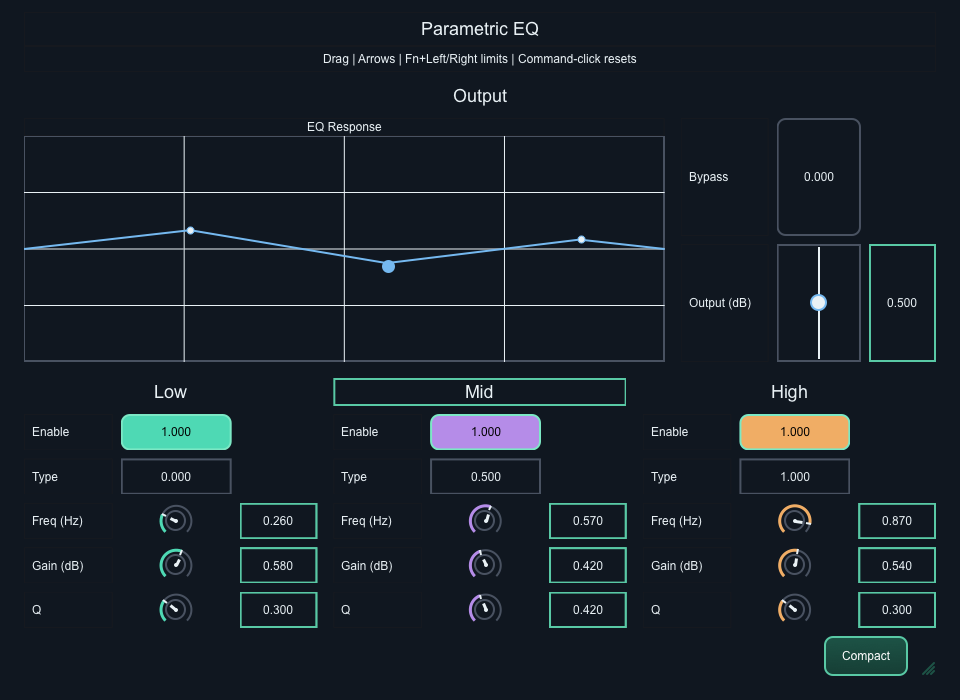
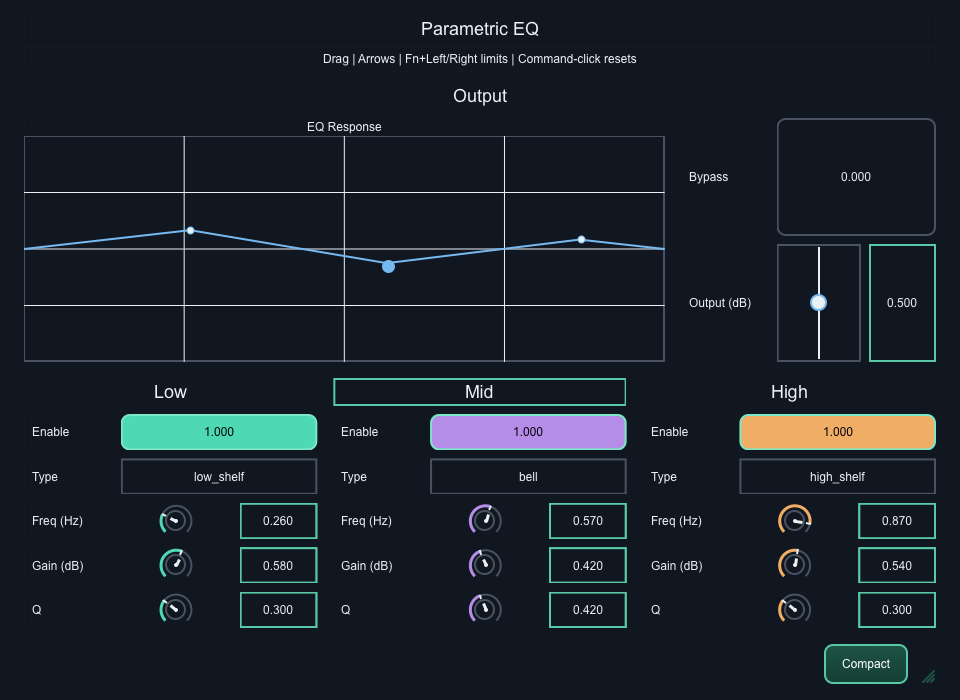
Polish parametric EQ layout

diff --git a/gui-adapters/vstgui/zig_vstgui_adapter_tests.cpp b/gui-adapters/vstgui/zig_vstgui_adapter_tests.cpp
@@ -1496,13 +1496,36 @@ int testParameterWorkspaceLayout() {
     callbacks.begin_edit = beginEdit;
     callbacks.perform_edit = performEdit;
     callbacks.end_edit = endEdit;
+    const char* titles[] = {
+        "Bypass", "Output", "Enable", "Type", "Freq", "Gain", "Q",
+        "Enable", "Type", "Freq", "Gain", "Q",
+        "Enable", "Type", "Freq", "Gain", "Q",
+    };
+    const char* units[] = {
+        "", "dB", "", "", "Hz", "dB", "",
+        "", "", "Hz", "dB", "",
+        "", "", "Hz", "dB", "",
+    };
+    const int32_t steps[] = {1, 0, 1, 2, 0, 0, 0, 1, 2, 0, 0, 0, 1, 2, 0, 0, 0};
+    const ZigVstguiControlKind kinds[] = {
+        ZIG_VSTGUI_CONTROL_TOGGLE, ZIG_VSTGUI_CONTROL_DECIBEL_SLIDER,
+        ZIG_VSTGUI_CONTROL_TOGGLE, ZIG_VSTGUI_CONTROL_ENUM_DROPDOWN,
+        ZIG_VSTGUI_CONTROL_ROTARY_KNOB, ZIG_VSTGUI_CONTROL_ROTARY_KNOB,
+        ZIG_VSTGUI_CONTROL_ROTARY_KNOB,
+        ZIG_VSTGUI_CONTROL_TOGGLE, ZIG_VSTGUI_CONTROL_ENUM_DROPDOWN,
+        ZIG_VSTGUI_CONTROL_ROTARY_KNOB, ZIG_VSTGUI_CONTROL_ROTARY_KNOB,
+        ZIG_VSTGUI_CONTROL_ROTARY_KNOB,
+        ZIG_VSTGUI_CONTROL_TOGGLE, ZIG_VSTGUI_CONTROL_ENUM_DROPDOWN,
+        ZIG_VSTGUI_CONTROL_ROTARY_KNOB, ZIG_VSTGUI_CONTROL_ROTARY_KNOB,
+        ZIG_VSTGUI_CONTROL_ROTARY_KNOB,
+    };
     std::array<ZigVstguiParameterDescription, 17> parameters {};
     for (uint32_t index = 0; index < parameters.size(); ++index) {
         parameters[index] = {
             index + 1,
             0.5,
-            {index % 5 == 4 ? "Freq" : "Control", index % 5 == 4 ? "Hz" : "", 0, 0.5},
-            index % 5 >= 2 ? ZIG_VSTGUI_CONTROL_ROTARY_KNOB : ZIG_VSTGUI_CONTROL_LINEAR_SLIDER,
+            {titles[index], units[index], steps[index], 0.5},
+            kinds[index],
         };
     }
     const ZigVstguiGraphPoint response[] = {{20.0, 0.0}, {1'000.0, 3.0}, {20'000.0, 0.0}};
@@ -1565,13 +1588,24 @@ int testParameterWorkspaceLayout() {
             VSTGUI::CRect primary;
             VSTGUI::CRect value;
             if (!editor.parameterControlBounds(parameter + 1, label, primary, value)) return 7;
-            const VSTGUI::CRect parts[] = {label, primary, value};
-            for (const auto& part : parts) {
+            const VSTGUI::CRect required_parts[] = {label, primary};
+            for (const auto& part : required_parts) {
                 if (part.getWidth() <= 0.0 || part.getHeight() <= 0.0 ||
                     part.left < margin || part.right > right ||
                     part.top < 0.0 || part.bottom > editor.contentHeight()) return 8;
             }
-            if (label.right > primary.left || primary.right > value.left) return 9;
+            const bool has_inline_value = kinds[parameter] == ZIG_VSTGUI_CONTROL_TOGGLE ||
+                kinds[parameter] == ZIG_VSTGUI_CONTROL_ENUM_DROPDOWN;
+            if (label.right > primary.left) return 9;
+            if (has_inline_value) {
+                if (value.getWidth() != 0.0 || value.getHeight() != 0.0) return 22;
+                if (size[0] == 720 && primary.getWidth() < 112.0) return 23;
+            } else {
+                if (value.getWidth() <= 0.0 || value.getHeight() <= 0.0 ||
+                    value.left < margin || value.right > right ||
+                    value.top < 0.0 || value.bottom > editor.contentHeight()) return 24;
+                if (primary.right > value.left) return 25;
+            }
         }
         const auto graph_bounds = editor.graphBounds(0);
         if (graph_bounds.getWidth() <= 0.0 || graph_bounds.getHeight() < 100.0 ||

diff --git a/gui-adapters/vstgui/zig_vstgui_visual_tests.cpp b/gui-adapters/vstgui/zig_vstgui_visual_tests.cpp
@@ -82,6 +82,19 @@ int32_t rejectDrop(void*, uint32_t, const char* const*, uint32_t) { return -1; }
 int32_t acceptAction(void*, uint32_t, uint32_t) { return 0; }
 int32_t rejectAction(void*, uint32_t, uint32_t) { return -1; }
 
+int32_t formatEqValue(void*, uint32_t parameter_id, double normalized, char* output, uint32_t capacity) {
+    if (!output || capacity == 0) return -1;
+    const bool type_parameter = parameter_id == 4 || parameter_id == 9 || parameter_id == 14;
+    if (type_parameter) {
+        const char* value = normalized < 0.25 ? "low_shelf" :
+            normalized < 0.75 ? "bell" : "high_shelf";
+        const int written = std::snprintf(output, capacity, "%s", value);
+        return written >= 0 && static_cast<uint32_t>(written) < capacity ? written : -1;
+    }
+    const int written = std::snprintf(output, capacity, "%.3f", normalized);
+    return written >= 0 && static_cast<uint32_t>(written) < capacity ? written : -1;
+}
+
 struct TextProgressVisualState {
     std::string text {"Studio Plate"};
     bool reject {false};
@@ -1246,6 +1259,7 @@ std::shared_ptr<ZigVstguiEditor> buildParameterWorkspace(uint32_t width, uint32_
     callbacks.begin_edit = acceptBegin;
     callbacks.perform_edit = acceptEdit;
     callbacks.end_edit = acceptEnd;
+    callbacks.format_value = formatEqValue;
     auto editor = std::make_shared<ZigVstguiEditor>(
         parameters.data(),
         static_cast<uint32_t>(parameters.size()),

diff --git a/gui-adapters/vstgui/zig_vstgui_editor.cpp b/gui-adapters/vstgui/zig_vstgui_editor.cpp
@@ -1793,7 +1793,13 @@ void ZigVstguiEditor::layoutParameterWorkspace(
             3,
             cells
         );
-        parameter_controls[parameter_index]->setBounds(cells[0], cells[1], cells[2]);
+        const auto kind = parameter_control_kinds[parameter_index];
+        const bool has_inline_value = kind == ZIG_VSTGUI_CONTROL_TOGGLE ||
+            kind == ZIG_VSTGUI_CONTROL_ENUM_DROPDOWN;
+        const VSTGUI::CRect primary_bounds = has_inline_value
+            ? VSTGUI::CRect(cells[1].left, cells[1].top, cells[2].right, cells[1].bottom)
+            : cells[1];
+        parameter_controls[parameter_index]->setBounds(cells[0], primary_bounds, cells[2]);
     };
 
     if (compact) {
@@ -1869,11 +1875,12 @@ void ZigVstguiEditor::layoutParameterWorkspace(
             );
         }
     }
+    const double resize_gutter = theme.spacing.small;
     resize_control.setBounds(VSTGUI::CRect(
         right - theme.control_metrics.button_width,
-        footer_control_top,
+        footer_control_top + resize_gutter,
         right,
-        footer_bottom
+        footer_bottom + resize_gutter
     ));
     (void)content_bottom;
 }

diff --git a/gui-adapters/vstgui/zig_vstgui_controls.cpp b/gui-adapters/vstgui/zig_vstgui_controls.cpp
@@ -858,10 +858,10 @@ bool ParameterControl::bounds(
     VSTGUI::CRect& primary_bounds,
     VSTGUI::CRect& value_bounds
 ) const {
-    if (!label || !primary_control || !value_edit) return false;
+    if (!label || !primary_control) return false;
     label_bounds = label->getViewSize();
     primary_bounds = primary_control->getViewSize();
-    value_bounds = value_edit->getViewSize();
+    value_bounds = value_edit ? value_edit->getViewSize() : VSTGUI::CRect();
     return true;
 }
 

diff --git a/docs/gui-parametric-eq-plan.md b/docs/gui-parametric-eq-plan.md
@@ -85,7 +85,7 @@ Exit criteria:
 - [x] Use labeled band panels and a separate output section so the screen never presents more than five ungrouped decisions.
 - [x] Keep Bypass visually distinct from band enable controls and away from reset actions.
 - [x] Preserve selected band, focus order, scroll position, analyzer state, and accepted host size per instance.
-- [ ] Verify repeated open and close, two simultaneous instances, manual resize, compact toggling, and state restoration.
+- [x] Verify repeated open and close, two simultaneous instances, manual resize, compact toggling, and state restoration.
 - [x] Cover macOS accessibility directly and retain toolkit-neutral Windows semantics.
 
 Exit criteria:
@@ -96,10 +96,10 @@ Exit criteria:
 
 ## Milestone 6: API Decisions and Release Gates
 
-- [ ] Promote rotary only if the gallery and EQ use one public contract and every local exit criterion passes.
-- [ ] Promote decibel controls after the final EQ host checks. The gallery, channel strip, IR loader, and EQ now share one public contract.
+- [x] Promote rotary after the gallery and EQ pass the same public-contract tests and the current EQ passes its REAPER walkthrough.
+- [x] Promote decibel controls after the gallery, channel strip, IR loader, and EQ pass the shared contract and the current EQ passes its REAPER walkthrough.
 - [x] Keep the direct bipolar slider experimental until a production editor uses that presentation. Bipolar dB rotary behavior does not prove the slider contract.
-- [ ] Promote assets, fonts, and custom drawing only if the EQ and IR loader use the same contract successfully.
+- [x] Promote assets, fonts, and custom drawing after the gallery, IR loader, and EQ pass the shared contract and macOS host checks.
 - [x] Keep analyzer transport experimental until a second production analyzer consumer establishes its required shape.
 - [x] Document precise blockers for every retained experimental API.
 - [x] Update component reference examples and status tables.
@@ -111,7 +111,7 @@ Release gates:
 - [x] `zig build bundle-examples-linux -Dtarget=aarch64-linux-gnu --summary all`
 - [x] `zig build bundle-examples-windows -Dtarget=x86_64-windows-gnu --summary all`
 - [ ] Serialized pluginval strictness 5 and strictness 10, stopping at the first unexpected exit
-- [ ] Manual REAPER checks for rendering, graph and knob synchronization, resize cycles, multiple instances, and editor reopen
+- [x] Manual REAPER checks for rendering, graph and knob synchronization, resize cycles, multiple instances, and editor reopen
 
 External checks remain pending when the required environment is unavailable:
 
@@ -237,22 +237,35 @@ Record each committed milestone here with test counts, performance measurements,
 - The gallery and parametric EQ now exercise the same `GraphHandle`, parameter-driven controller source, selection, third-dimension adjustment, and linked-group highlight contracts. The existing native graph-handle suite covers grouped pointer edits, keyboard adjustment, host automation, rejection rollback, selection traversal, accessibility values, and teardown.
 - `zig build test raw-api-abi validate-examples --summary all` passed. The matrix includes 3,716 passing tests, every raw ABI check, all twelve Steinberg example validators, native adapter tests, macOS accessibility tests, and visual regression. Final warm-render measurements were 93.7 us for the full visual suite, 31.4 us for rotary controls, 259.1 us for signal views, and 228.1 us for linked EQ.
 - Linux `aarch64-linux-gnu` and Windows `x86_64-windows-gnu` cross-target bundle matrices each passed 38/38 steps.
-- `GraphHandle` remains experimental because the gallery is a regression fixture and the parametric EQ is still its only production consumer. Manual validation of the current EQ bundle remains part of the release gate.
+- `GraphHandle` remains experimental because the gallery is a regression fixture and the parametric EQ is still its only production consumer. The completed REAPER walkthrough validates the implementation, but it does not add a second production consumer.
+
+### Final macOS host acceptance and layout polish
+
[1 lines of base64/hex data omitted]
+- Pointer graph editing updated Mid frequency and gain together with the matching rotary controls. Mid gain rotary edits moved the graph handle and curve. Fn+Up adjusted Q and narrowed the response.
+- Bypass toggled and flattened the response. Exact entry, Command-click reset, Type menus, band Enable controls, and every remaining control worked correctly.
+- Compact, Expanded, manual grow, and manual shrink returned to deterministic layouts without blank regions or unreachable controls. Two simultaneous instances retained independent state. Reopening the FX window restored both instances and their values. Three additional close and reopen cycles remained stable and responsive.
+- The host review found clipped shelf names at the default size. Toggle and dropdown rows now reuse the value-field track they do not instantiate, preserving at least 112 logical units for the primary control. Visual fixtures render `low_shelf`, `bell`, and `high_shelf`, and geometry tests cover the real EQ labels and control kinds.
+- The Compact and Expand control now retains a themed medium vertical gutter from the High-band controls while preserving the standard editor height and bottom margin. The final host review accepted the text padding and footer spacing.
+- `zig build test --summary all` passed 58/58 steps and 3,716/3,716 tests. Native adapter, macOS accessibility, and visual-regression suites passed. The final linked EQ warm render measured 239.9 us during validator execution and 240.6 us during the full test run, both within the 300 us budget.
+- Every raw ABI check and all twelve Steinberg example validators passed. The Parametric EQ validator passed 47/47 tests for both processing precisions. Linux `aarch64-linux-gnu` and Windows `x86_64-windows-gnu` bundle matrices each passed 38/38 steps.
+- Rotary controls, decibel controls, and the shared asset, font, and custom-drawing contracts move to supported status. Direct bipolar sliders, `GraphHandle`, graph layers, and analyzer transport remain experimental for the consumer-count reasons below.
+- Pluginval remains unavailable under the stop-on-first-exit policy. The preserved unexpected exit occurred during application startup before a plugin image appeared in the stack. Native Windows, X11, Wayland, Narrator, AT-SPI, screen-reader, and multi-monitor scale checks remain external.
 
 ## Current Completion Audit
 
 | Requirement | Evidence | Status |
 | --- | --- | --- |
-| Three-band EQ and output | Public 17-parameter plugin, DSP tests, raw ABI checks, and 47/47 Steinberg tests | Complete locally |
-| Rotary, bipolar dB, modulation, exact entry, reset, fine adjustment, tooltip, and keyboard paths | EQ and gallery declarations plus native interaction, accessibility, and visual tests | Complete locally; promotion awaits current-bundle REAPER checks |
+| Three-band EQ and output | Public 17-parameter plugin, DSP tests, raw ABI checks, 47/47 Steinberg tests, and REAPER acceptance | Complete on macOS arm64 |
+| Rotary, bipolar dB, modulation, exact entry, reset, fine adjustment, tooltip, and keyboard paths | EQ and gallery declarations plus native interaction, accessibility, visual, and REAPER tests | Complete; rotary and decibel controls are supported |
 | Linked graph editing and automation | EQ and gallery use the same public `GraphHandle` contract; native tests cover grouped edits, host updates, rejection, selection, and accessibility | Complete locally; `GraphHandle` remains experimental with one production consumer |
 | Spectrum transport | Fixed-capacity `SpectrumAnalyzer(128)`, activity tests, instance isolation, and performance coverage | Complete locally; transport remains experimental with one production analyzer consumer |
 | Responsive layout and scaling | Compact, standard, expanded, resize-cycle, 1x, 1.5x, and 2x geometry tests and references | Complete locally; multi-monitor movement remains external |
-| Shared skin | Gallery, IR Loader, and EQ use the same asset, font, and drawing contracts; lifecycle and visual tests pass | Complete locally; promotion awaits current-bundle REAPER checks |
+| Shared skin | Gallery, IR Loader, and EQ use the same asset, font, and drawing contracts; lifecycle, visual, and REAPER tests pass | Complete; assets, fonts, and custom drawing are supported |
 | Accessibility | Toolkit-neutral semantics and macOS bridge tests cover parameters, handles, group selection, bypass, and analyzer state | Complete locally; VoiceOver, Narrator, and AT-SPI workflows remain external |
 | Cross-target and validator coverage | Raw ABI, all twelve Steinberg validators, Linux 38/38, and Windows 38/38 pass | Complete locally; native Windows, X11, and Wayland hosts remain external |
 | Pluginval | Earlier serialized runs passed. The latest preserved unexpected exit occurred during application startup before a plugin image appeared in the stack | Current-build coverage unavailable under the stop-on-first-exit policy |
-| REAPER | Earlier GUI passes found and verified shared fixes. The validated EQ binary differs from the installed binary while REAPER remains open | Pending safe bundle replacement and controlled current-build walkthrough |
+| REAPER | Current binary hash matched the installed bundle. Rendering, all controls, linked editing, resize cycles, two instances, restoration, and repeated reopen passed in REAPER 7.36 | Complete on macOS arm64 |
 
 Retained experimental APIs:
 

diff --git a/docs/framework/vstgui-components.md b/docs/framework/vstgui-components.md
@@ -514,11 +514,11 @@ The project remains pre-1.0, so even the supported surface does not yet carry a 
 
 Supported authoring surface:
 
-- `Parameter`, the linear, toggle, dropdown, and segmented control kinds, `Theme`, `Layout`, and the four `create*View` functions.
+- `Parameter`, the linear, rotary, toggle, dropdown, segmented, and decibel control kinds, `Theme`, `Layout`, and the four `create*View` functions.
 - `EditorDescription`, `Composition`, `Group`, `StyleOverride`, and `createEditor`.
 - `Meter`, meter source wiring, `MeterBank`, and GUI telemetry presentation.
 - `Graph`, graph axes and style roles, and grouped graph composition.
-- `WaveformCapture`, `SpectrumAnalyzer`, activity-gated dynamic graph sources, and production waveform and spectrum rendering.
+- `WaveformCapture`, activity-gated dynamic graph sources, and production waveform rendering.
 - `EnvelopePoint`, bounded editable envelopes, stable selection, snapping, and parameter-backed point gestures.
 - `editor_state.Store`, typed editor values, bounded serialization, migrations, and persistent envelope bindings.
 - `XYPad`, ordered two-parameter gestures, per-axis semantics, and grouped XY-pad composition.
@@ -534,13 +534,14 @@ Supported authoring surface:
 - `FileImporter`, bounded extension filtering and path copying, an accessible operating-system picker fallback, keyboard interaction, progress presentation, cancellation, retry, and recoverable rejection feedback.
 - Standard parameter binding, host updates, formatting, parsing, focus, resizing, and per-instance lifecycle.
 - Theme and layout selection through `Skin`.
+- `Asset`, `Fonts`, `DrawingCallbacks`, `DrawRequest`, and bounded `Canvas` drawing functions.
 
 Experimental extensions:
 
-- `Asset`, `Fonts`, `DrawingCallbacks`, `DrawRequest`, and `Canvas` drawing functions. The gallery, IR loader, and parametric EQ now use the same public contract; final promotion still depends on the EQ release gates and manual host checks.
 - `ActionButton.success_focus_importer_id` and `ActionButton.ready_importer_id`. The IR loader is their only production consumer.
-- Rotary controls are shared by the gallery and parametric EQ, but remain experimental until the EQ release gates and manual host checks pass. Decibel sliders are shared by the gallery, channel strip, IR loader, and parametric EQ under one public contract, with final promotion pending the same host checks. The direct bipolar slider remains a gallery-only contract and needs a production consumer before promotion.
-- `GraphHandle`, `GraphLayer`, parameter-driven controller curves, and mixed-source graph layers. The gallery and parametric EQ use the same linked-handle, selection, group-highlight, adjustment, curve-source, and layer contracts. Linked handles still have one production consumer and remain pending the EQ release gates.
+- The direct bipolar slider. It remains a gallery-only presentation and needs a production consumer before promotion.
+- `GraphHandle`, `GraphLayer`, parameter-driven controller curves, and mixed-source graph layers. The gallery and parametric EQ use the same linked-handle, selection, group-highlight, adjustment, curve-source, and layer contracts, but linked handles still have one production consumer.
+- `SpectrumAnalyzer` and analyzer transport. The parametric EQ remains the only production analyzer consumer, so a second production use must establish the supported contract.
 - Fixed graph point storage and direct `SnapshotSeries` use. The production signal views use the higher-level bounded capture and analyzer types.
 - Native assistive-technology bridges. macOS is integration-tested, Windows is cross-compiled, and native screen-reader workflows remain unverified.
 - `AudioFileImporter`, controller-owned import status and command callbacks, and controller-sourced graph snapshots. The channel strip and IR loader use the contract, but decoded audio transport still has one production consumer.

diff --git a/docs/host-matrix.md b/docs/host-matrix.md
@@ -5,6 +5,7 @@ Tier 3 host smoke tests are release gates. Record only tests that were run in a 
 | Date | Host | Host Version | OS | CPU | Plugin Build | Bundle | Result | Notes |
 | --- | --- | --- | --- | --- | --- | --- | --- | --- |
 | 2026-07-17 | REAPER | 7.36/macOS-arm64 | macOS 15.4.1 | arm64 | 041ec5f | `zig_vst3_gain.vst3` | Partial Pass | Visible slider feedback, pointer dragging, arrow keys, Fn+Left/Right limits, exact text entry, Command-click reset, focus movement, host and editor resize, two isolated instances, pointer and keyboard automation recording/playback, save/reload, and editor recreation while stopped and running passed. Display-scale migration remains untested because a second display was unavailable. |
+| 2026-07-19 | REAPER | 7.36/macOS-arm64 | macOS 15.4.1 | arm64 | SHA-256 `582da11205eb` | `zig_vst3_parametric_eq.vst3` | Pass | Rendering, graph and rotary synchronization, Q adjustment, bypass response, exact entry, reset, Type menus, band enablement, compact and expanded presets, manual resize recovery, two isolated instances, state restoration, and repeated editor reopen passed. Final shelf-name padding and resize-button spacing were accepted. Multi-monitor scale migration remains pending. |
 | 2026-05-08 | REAPER | 7.72.0_0c2021fu | macOS 15.4 | arm64 | 3409b83 | `zig_vst3_gain.vst3` | Pass | Scanned in REAPER, inserted on a track, Gain parameter behavior confirmed, saved, reloaded. |
 | 2026-05-08 | REAPER | 7.72.0_0c2021fu | macOS 15.4 | arm64 | 3409b83 | `zig_vst3_bypass.vst3` | Pass | Scanned in REAPER, inserted on a track, Bypass behavior confirmed, saved, reloaded. |
 | 2026-05-08 | REAPER | 7.72.0_0c2021fu | macOS 15.4 | arm64 | 3409b83 | `zig_vst3_mode_gain.vst3` | Pass | Scanned in REAPER, inserted on a track, Mode parameter behavior confirmed, saved, reloaded. |
